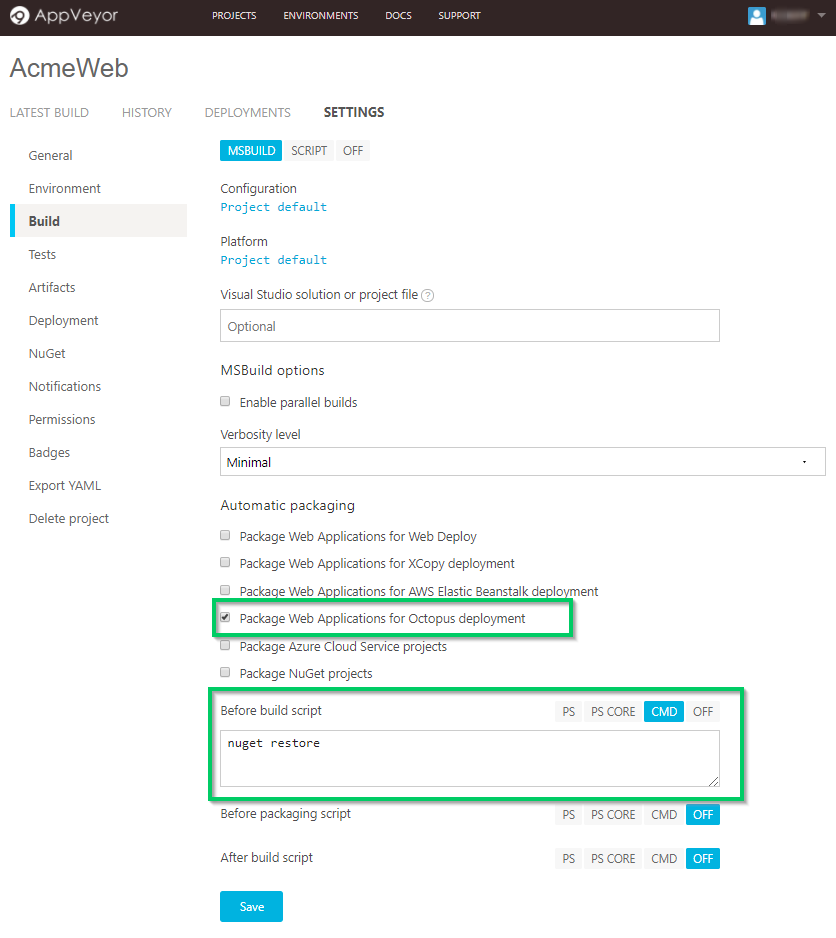
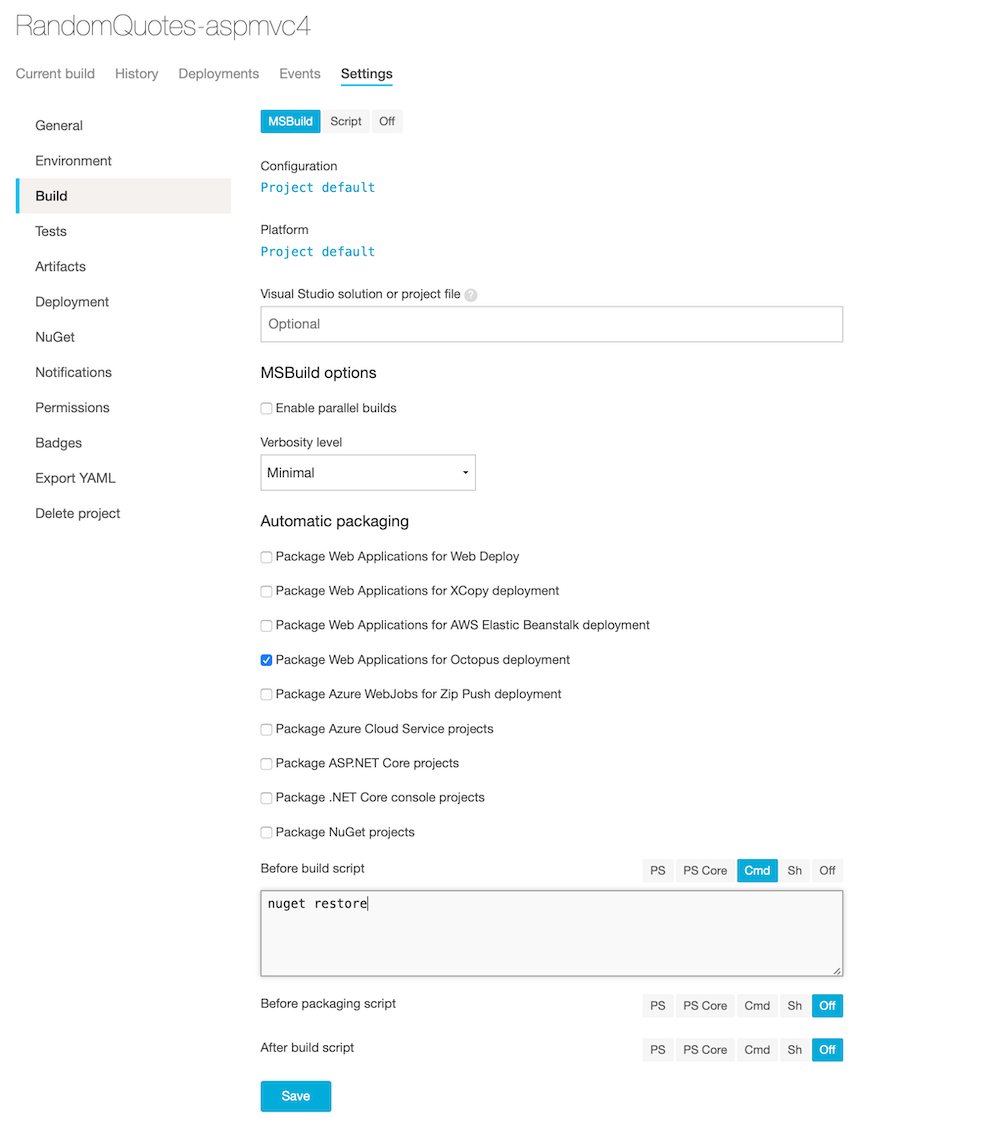
Refresh appveyor content

Changed region(s): [[0.0, 0.0, 1.0, 0.9893], [0.1555, 0.0928, 0.1866, 0.1237]]

diff --git a/docs/packaging-applications/build-servers/appveyor/index.md b/docs/packaging-applications/build-servers/appveyor/index.md
@@ -4,42 +4,65 @@ description: Octopus Deploy can be seamlessly integrated with your AppVeyor buil
 position: 10
 ---
 
-[AppVeyor](https://ci.appveyor.com) is a cloud-based continuous integration system that integrates natively with your source control and allows CI configuration files to live alongside your projects. This page will guide you through leveraging AppVeyor's build chain with Octopus Deploy's deployment capabilities.
+[AppVeyor](https://ci.appveyor.com) is a cloud-based continuous integration system that integrates natively with your source control and allows CI configuration files to live alongside your projects. 
+
+You can use AppVeyor to automatically package your applications from your source control repository, push the packaged application to the [built-in Octopus repository](/docs/packaging-applications/package-repository/built-in-repository/index.md), and create and deploy releases.
 
 ## Configuring an AppVeyor Project for Octopus
-Create a new AppVeyor project and use the Git repository `https://github.com/OctopusSamples/RandomQuotes-aspmvc4` as the source.
 
-### Build Phase
-Go to the Build page and add `nuget restore` to the `Before build script` command line input since AppVeyor will not perform this operation by default.
+To use AppVeyor with a source code repository, you'll need to create and configure a project. See the [AppVeyor docs](https://www.appveyor.com/docs/) for instructions.
 
-Under `Automatic Packaging` select `Package Web Applications for Octopus Deployment`. By ticking this box AppVeyor will run `octo.exe pack` after MSBuild has finished its `publish` command. Keep in mind that since AppVeyor is doing a publish, some of the files that would usually be included by the [`OctoPack`](/docs/packaging-applications/create-packages/octopack/index.md) MSBuild target might not be included by default (this includes the various `web.*.config` files). To ensure these files are included in the package make sure they are configured to `Copy to Output Directory` is Visual Studio.
+## Configure the Build
+
+Once you've added a project with a repository, you need to configure the build. In the settings for your AppVeyor project, navigate to the **build** page and check the checkbox for the **Package Web Applications for Octopus deployment** option.
+
+AppVeyor will run `octo.exe pack` after MSBuild has finished its `publish` command. Because AppVeyor is running the `publish` command, some of the files that [OctoPack](/docs/packaging-applications/create-packages/octopack/index.md) would normally include might not be included by default, this includes the `web.*.config` files. To ensure these files are included in the package make sure they are configured to `Copy to Output Directory` in Visual Studio.
+
+In the **Before build script** section add `nuget restore` as AppVeyor will not perform this operation by default.
 
 ![AppVeyor MSBuild Build](images/appveyor_build_msbuild.png)
 
-#### AppVeyor Environment Variables
+### AppVeyor Environment Variables
+
+The following environment variables are available and can be configured on the **Environment** page of your project's settings.
+
 | Variable Name       | Description|
 | ------------- | ------- |
 | OCTOPUS_PACKAGE_VERSION | Overrides the version in the package name. (default AppVeyor build version)|
 | OCTOPUS_PACKAGE_NUGET | Overrides the package type. (default nupkg) |
 | OCTOPUS_PACKAGE_ADVANCED | [Additional arguments](/docs/packaging-applications/create-packages/octo.exe.md) to pass to `octo.exe pack` |
 
-#### Non-MSbuild Projects
-AppVeyor have included `octo.exe` into the base Windows build VM and is available via the command line. If running a project _not_ using msbuild you can manually invoke the octo.exe pack command directly during the build phase.
+### Non-MSbuild Projects
 
-![AppVeyor Npm Build](images/appveyor_build_npm.png)
+AppVeyor have included `octo.exe` into the base Windows build VM and is available via the command line. If you're running a project that is _not_ using msbuild, you can manually invoke the `octo.exe pack` command during the build phase, by navigating to **{{build,Script}}** and adding you command to the build script section. For instance:
 
-If using this mechanism, you also need to flag the generated archive with AppVeyor that this file should be treated as an artifact of the build to be made available for subsequent steps. This can be done via the [Artifacts](https://www.appveyor.com/docs/packaging-artifacts/) page. You can simply provide a wildcard to pick up the dynamically generated package.
+```
+npm Build
+octo.exe pack --outFolder ./bin --id=MyApp
+```
+
+Next, flag the generated archive as an artifact of the build and should be made available for subsequence steps. On the **artifact** page of your project's settings add the path to the artifact, for instance:
+
+```
+./bin/*
+```
+
+You can use a wildcard to pick up the dynamically generated package.
 
 ![AppVeyor Npm Build](images/appveyor_artifact.png)
 
 ### Push To Octopus
-With the build page configured, go to `Deployment` and select the new `Octopus Deploy` `Deployment Provider`. This provider will perform all the appropriate calls to push the package to the Octopus Server. Ensure that the provided Octopus `Server URL` addresses can be reached by the AppVeyor servers. If not using the on-premise offering of AppVeyor, this means the _Octopus Server must be accessible over the Internet_.
+
+Next, go to the **Deployment** page in your project's settings and click **Add deployment** and from the **Deployment providers** select **Octopus Deploy**.
+
+Enter the URL where the Octopus Server can be reached, and add an [API key](/docs/octopus-rest-api/how-to-create-an-api-key.md).
 
 ![AppVeyor Deploy](images/appveyor_deploy.png)
 
-When you define an "Octopus package" in AppVeyor through the `Package Web Applications for Octopus Deployment` flag or `Artifacts` page, then AppVeyor will automatically select that package to push to your Octopus Server. Set the `Artifact(s)` field on the `Deployment` page if you have manually created an archive.
+When you define an "Octopus package" in AppVeyor through the **Package Web Applications for Octopus Deployment** flag or the **Artifacts** page, then AppVeyor will automatically select that package to push to your Octopus Server. Set the **Artifact(s)** field on the **Deployment** page if you have manually created an archive.
 
- If your Octopus Deploy project doesn't make use of [automatic release creation](/docs/deployment-process/project-triggers/automatic-release-creation.md) or automatic lifecycle progression you can optionally trigger these actions from within the AppVeyor configuration providing the appropriate values in the inputs provided.
+If your Octopus Deploy project doesn't make use of [automatic release creation](/docs/deployment-process/project-triggers/automatic-release-creation.md) or automatic lifecycle progression you can optionally trigger these actions from within the AppVeyor configuration providing the appropriate values in the inputs provided.
+
 Unless overridden, the AppVeyor project name will be used in place of the Octopus project name when creating a release.
 
 ## Build Configuration in Code
@@ -64,7 +87,7 @@ deploy:
   deploy_wait: false
 ```
 
-Storing the configuration with the source code is a great way to version the build process however it is work noting that when AppVeyor detects a `appveyor.yml` file in the source code, any configuration in the portal will be ignored. Although you can continue to update the configuration via the portal, this will have no effect unless you remove the YAML file or configure the project to explicitly ignore it.
+Storing the configuration with the source code is a great way to version the build process, however, it is worth noting that when AppVeyor detects an **appveyor.yml** file in the source code, any configuration in the portal will be ignored. Although you can continue to update the configuration via the portal, this will have no effect unless you remove the YAML file or configure the project to explicitly ignore it.
 
 ## Further Information
 For more in-depth information about using AppVeyor, we would recommend checking out their [docs](https://www.appveyor.com/docs/).
